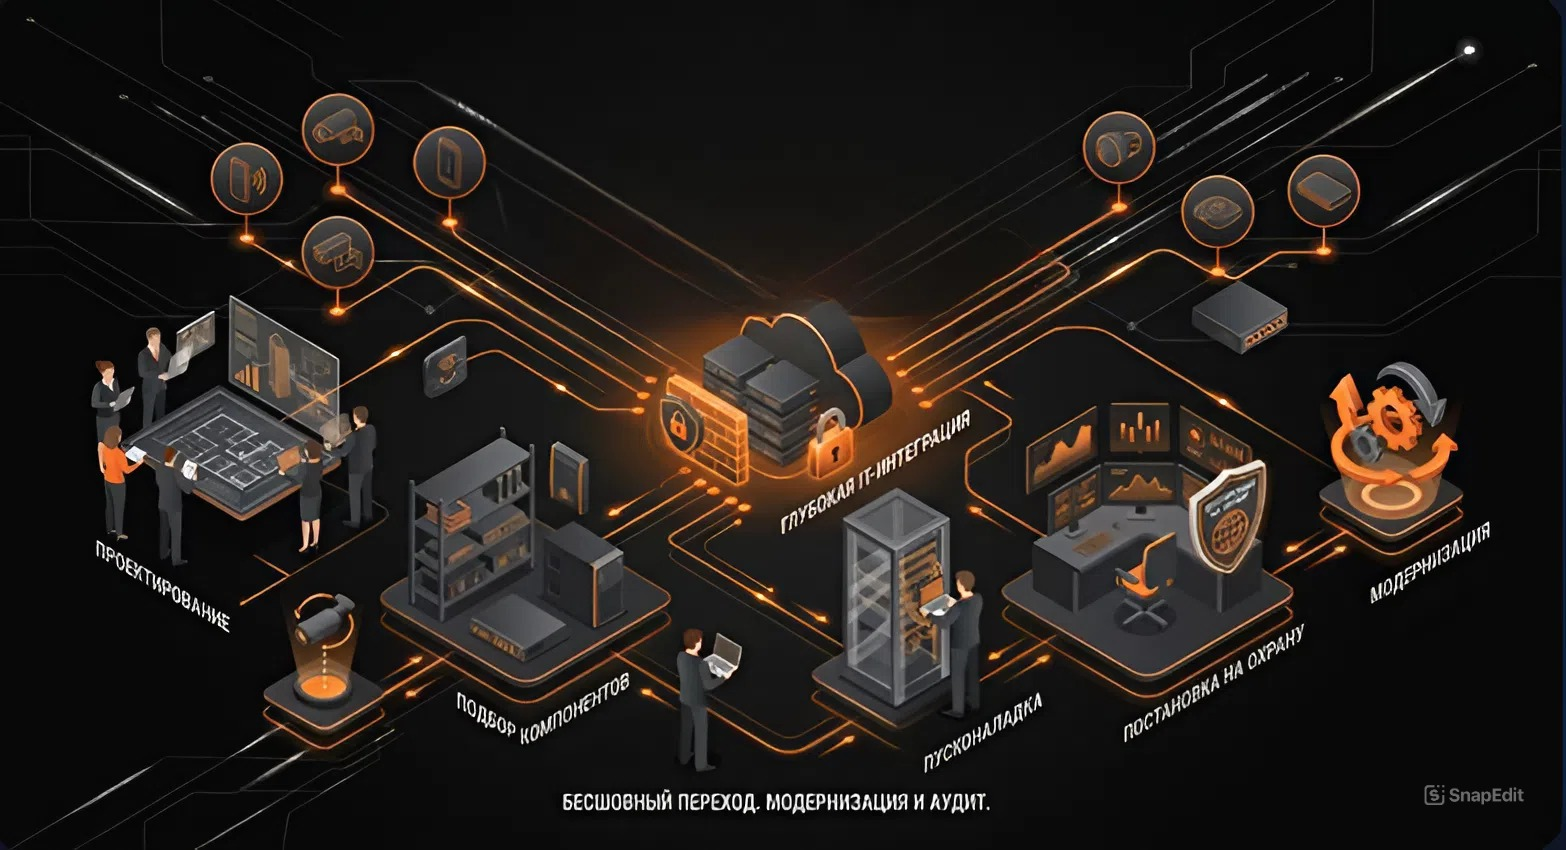
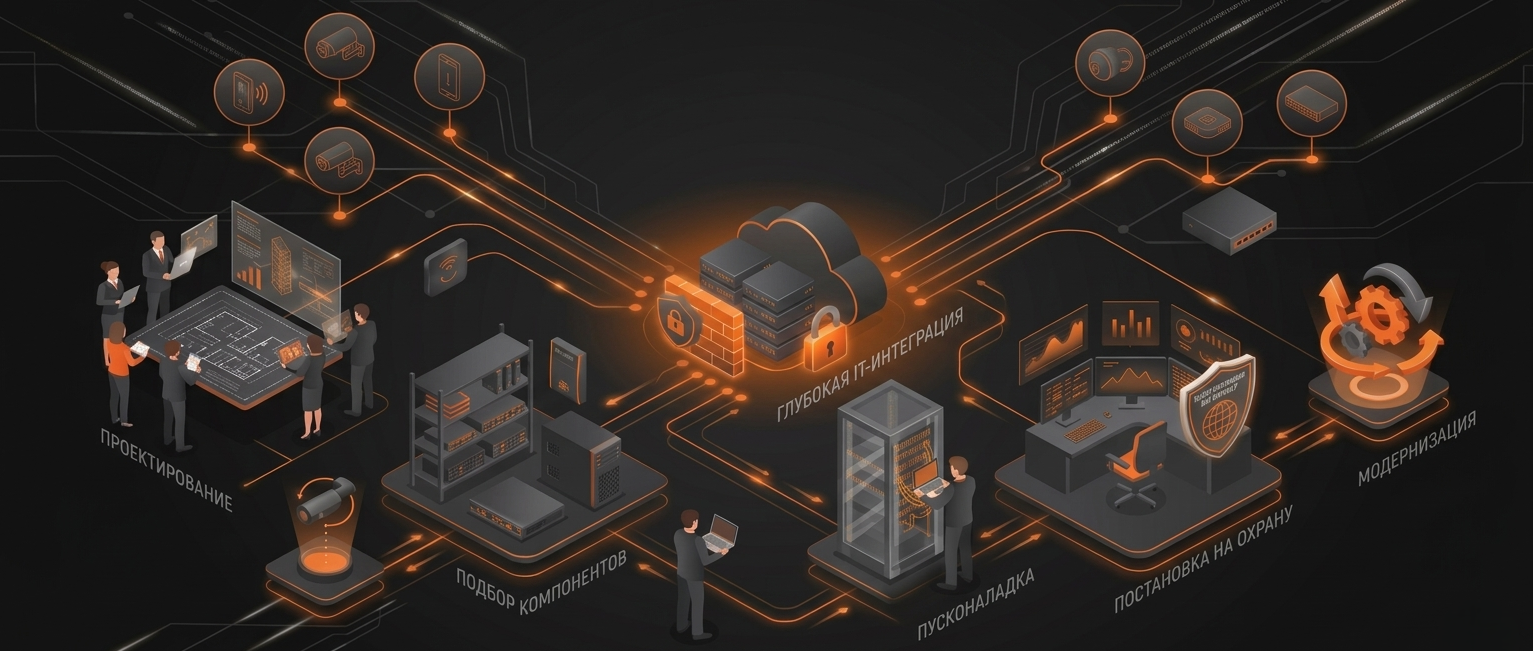
new hero

diff --git a/src/верстка/ServicesPage.tsx b/src/верстка/ServicesPage.tsx
@@ -27,22 +27,13 @@ export const ServicesPage = (): JSX.Element => {
   return (
     <main className="w-full min-h-screen bg-[#0e0f0a]">
       <section className="relative w-full h-[520px] overflow-hidden">
-        {/* Фон hero — два фото рядом */}
-        <div className="absolute inset-0 flex">
-          <div className="w-1/2 h-full">
-            <img
-              src={servicesHero}
-              alt=""
-              className="w-full h-full object-cover object-left"
-            />
-          </div>
-          <div className="w-1/2 h-full">
-            <img
-              src={servicesHero}
-              alt=""
-              className="w-full h-full object-cover object-right"
-            />
-          </div>
+        {/* Фон hero — единое фото */}
+        <div className="absolute inset-0">
+          <img
+            src={servicesHero}
+            alt=""
+            className="w-full h-full object-cover"
+          />
         </div>
         <div className="absolute inset-0 bg-black/60" />
 
